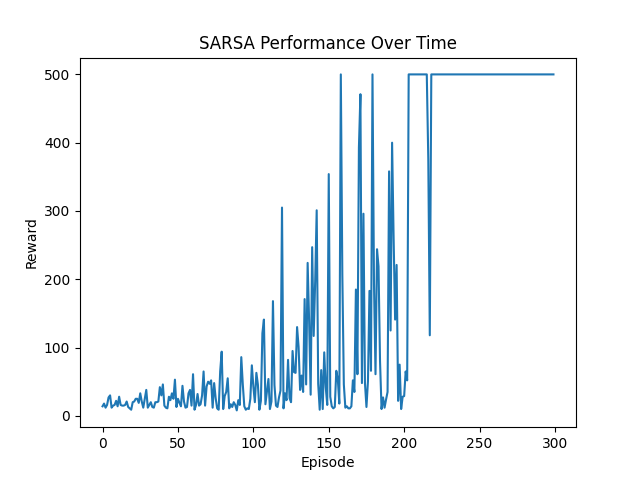
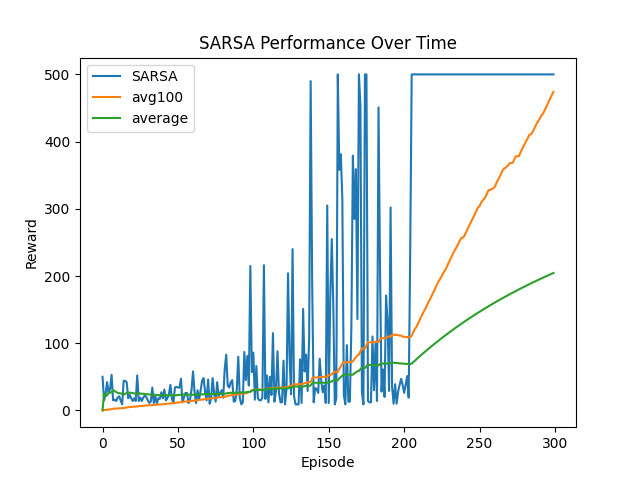
SARSA with seeding

diff --git a/src/agents/sarsa.py b/src/agents/sarsa.py
@@ -23,7 +23,7 @@ else:
     sys.exit(1)
 
 # Import the plotting function
-from src.utils.plot import plot_episode_durations
+from src.utils.plot import plot_single_episode, plot_multiple_episodes
 
 # Import a function for discretizing the state space
 from src.utils.bucketize import bucketize
@@ -39,6 +39,7 @@ class SarsaAgent:
         discount_factor (float): The discount factor used in the SARSA algorithm. 
         epsilon (float): The value of the current epsilon threshold.
         min_epsilon (float): The minimum value that the epsilon threshold can take.
+        seed (int): The seed used for resetting the environment. 
     
     Methods:
         select_action(state): Selects an action using the epsilon greedy policy.
@@ -52,7 +53,8 @@ class SarsaAgent:
                  n_actions: int,
                  min_learning_rate: float,
                  discount_factor: float,
-                 min_epsilon: float) -> None:
+                 min_epsilon: float, 
+                 seed: int) -> None:
         
         self.n_actions = n_actions
 
@@ -64,6 +66,8 @@ class SarsaAgent:
         
         self.epsilon = float
         self.min_epsilon = min_epsilon
+
+        self.seed = seed
 
     def select_action(self, state: tuple[float, float, float, float]) -> int:
         """Selects an action using the epsilon greedy policy.
@@ -145,7 +149,7 @@ class SarsaAgent:
 
         for i_episode in tqdm(range(num_episodes)):
             # Get the observation from the environment
-            obs, _ = env.reset()
+            obs, _ = env.reset(seed = self.seed)
 
             # Discretize the continuous values corresponding to the current state
             state = bucketize(obs, obs_bounds)
@@ -199,19 +203,34 @@ if __name__ == "__main__":
     min_epsilon = 0.01
     n_actions = env.action_space.n
 
-    # Declare the SARSA agent
-    agent = SarsaAgent(
-        n_actions=n_actions,
-        min_learning_rate = min_learning_rate,
-        discount_factor = discount_factor,
-        min_epsilon = min_epsilon
-    )
+   # Declare a list to store the performance of the algorithm over seeds
+    episode_durations_over_seeds = []
 
-    # Train the agent
-    episode_durations = agent.train(env=env, num_episodes=num_episodes)
+    for seed in [1, 2, 3, 5, 8]: # Fibonacci seeds
 
-    # Plot the episode durations
-    plot_episode_durations(algorithm="SARSA", episode_durations=episode_durations, num_episodes=num_episodes)
+        # Set the seed
+        random.seed(seed)
+        np.random.seed(seed)
+
+        # Declare the SARSA agent
+        agent = SarsaAgent(n_actions = n_actions,
+                           min_learning_rate = min_learning_rate,
+                           discount_factor = discount_factor,
+                           min_epsilon = min_epsilon,
+                           seed = seed)
+
+        # Train the agent
+        episode_durations = agent.train(env=env, num_episodes=num_episodes)
+
+        # Record the performance of the algorithm
+        episode_durations_over_seeds.append(episode_durations)
+
+    # Plot the performance recorded over the last seed
+    seed_episode_durations = episode_durations_over_seeds[0]
+    plot_single_episode(algorithm="SARSA", episode_durations=seed_episode_durations, num_episodes=num_episodes)
+
+    # Plot the performance of the algorithm over the seeds
+    plot_multiple_episodes(algorithm="SARSA", episode_durations_over_seeds=episode_durations_over_seeds)
 
     # Close the environment
     env.close()
